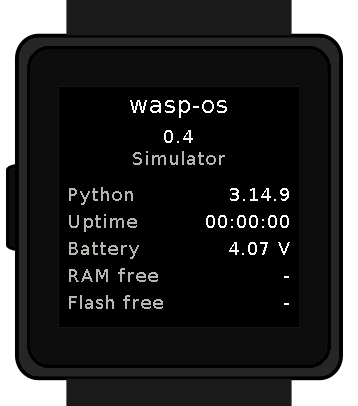
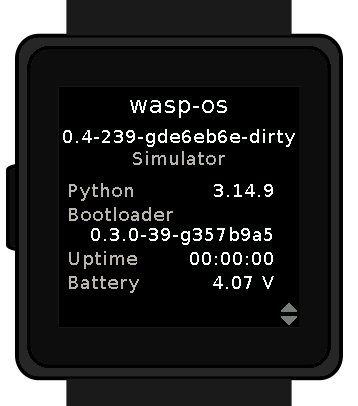
apps: about: Show the bootloader, on two pages
Add the bootloader version to the first page, and move RAM and flash
to a second page (swipe up or down), with the SoftDevice and where the
watch last hung if the watchdog reset it.

A value that does not fit next to its label now goes on the line below:
"MicroPython 1.30.0-preview" overlapped already.

Claude-Session: https://claude.ai/code/session_01XjAUyHphidkHRBuB7sBoox

diff --git a/wasp/apps/system/about.py b/wasp/apps/system/about.py
@@ -5,8 +5,10 @@
 ~~~~~~~~
 
 Shows which version of wasp-os is running, together with the board, the
-MicroPython version, the uptime, the battery voltage and how much RAM and
-flash are free. Handy to include in a bug report.
+MicroPython and bootloader versions, the uptime and the battery voltage.
+Swipe up or down for the SoftDevice, where the watch last hung (if the
+watchdog reset it) and how much RAM and flash are free. Handy to include
+in a bug report.
 
 .. figure:: res/screenshots/AboutApp.png
     :width: 179
@@ -47,10 +49,25 @@ class AboutApp():
 
     def foreground(self):
         """Activate the application."""
+        self._page = 0
+        self._scroll = wasp.widgets.ScrollIndicator()
         self._draw()
+        wasp.system.request_event(wasp.EventMask.SWIPE_UPDOWN)
+
+    def background(self):
+        self._scroll = None
+        del self._scroll
+
+    def swipe(self, event):
+        """Switch between the two pages."""
+        self._page = 1 - self._page
+        mute = wasp.watch.display.mute
+        mute(True)
+        self._draw()
+        mute(False)
 
     def _facts(self):
-        """The board, and the rows to show as (label, value) pairs."""
+        """The board, and the rows of each page as (label, value) pairs."""
         if sys.implementation.name == 'micropython':
             uname = os.uname()
             board = uname.machine.split(' with ')[0]
@@ -67,20 +84,30 @@ class AboutApp():
         ram = _kb(gc.mem_free()) if hasattr(gc, 'mem_free') else '-'
         mv = wasp.watch.battery.voltage_mv()
 
-        return board, (
+        # Such as '0.3.0-39-g357b9a5 s132 6.1.1'
+        bootloader = getattr(wasp.watch, 'bootloader', None)
+        bootloader = bootloader.split(' ', 1) if bootloader else ()
+        hang = getattr(wasp.watch, 'last_hang', None)
+        hang = 'pc {:x} lr {:x}'.format(hang[0], hang[1]) if hang else 'none'
+
+        return board, ((
             python,
+            ('Bootloader', bootloader[0] if bootloader else '-'),
             ('Uptime', _uptime(int(wasp.watch.rtc.uptime))),
             ('Battery', '{}.{:02d} V'.format(mv // 1000, mv % 1000 // 10)),
+        ), (
+            ('SoftDevice', bootloader[1] if len(bootloader) > 1 else '-'),
+            ('Last hang', hang),
             ('RAM free', ram),
             ('Flash free', flash),
-        )
+        ))
 
     def _draw(self):
         """Draw the display from scratch."""
         draw = wasp.watch.drawable
         hi = wasp.system.theme('bright')
         lo = wasp.system.theme('mid')
-        board, rows = self._facts()
+        board, pages = self._facts()
         draw.fill()
 
         draw.set_color(hi)
@@ -91,10 +118,16 @@ class AboutApp():
         draw.set_color(lo)
         draw.string(board, 0, 64, width=240)
 
-        y = 100
-        for label, value in rows:
+        # Right aligned, clear of the scroll indicator. A value that does not
+        # fit next to its label goes on the line below.
+        y = 96
+        for label, value in pages[self._page]:
             draw.set_color(lo)
             draw.string(label, 8, y)
+            width = draw.bounding_box(value)[0]
+            if draw.bounding_box(label)[0] + width > 216 - 16:
+                y += 20
             draw.set_color(hi)
-            draw.string(value, 232 - draw.bounding_box(value)[0], y)
-            y += 27
+            draw.string(value, 216 - width, y)
+            y += 24
+        self._scroll.draw()
